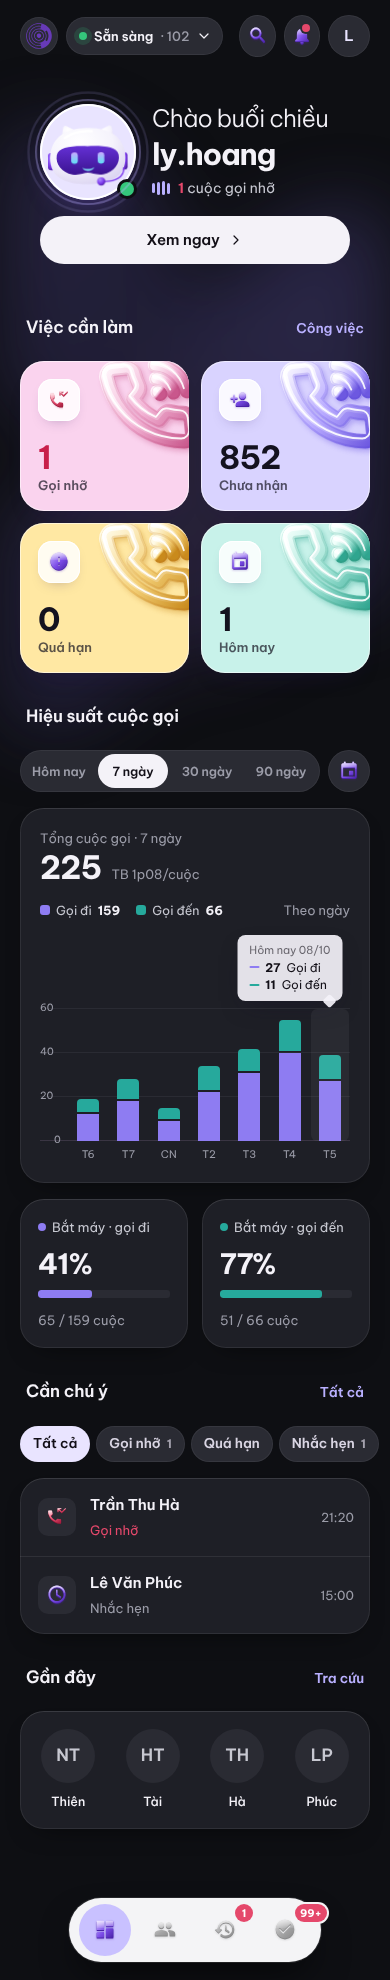
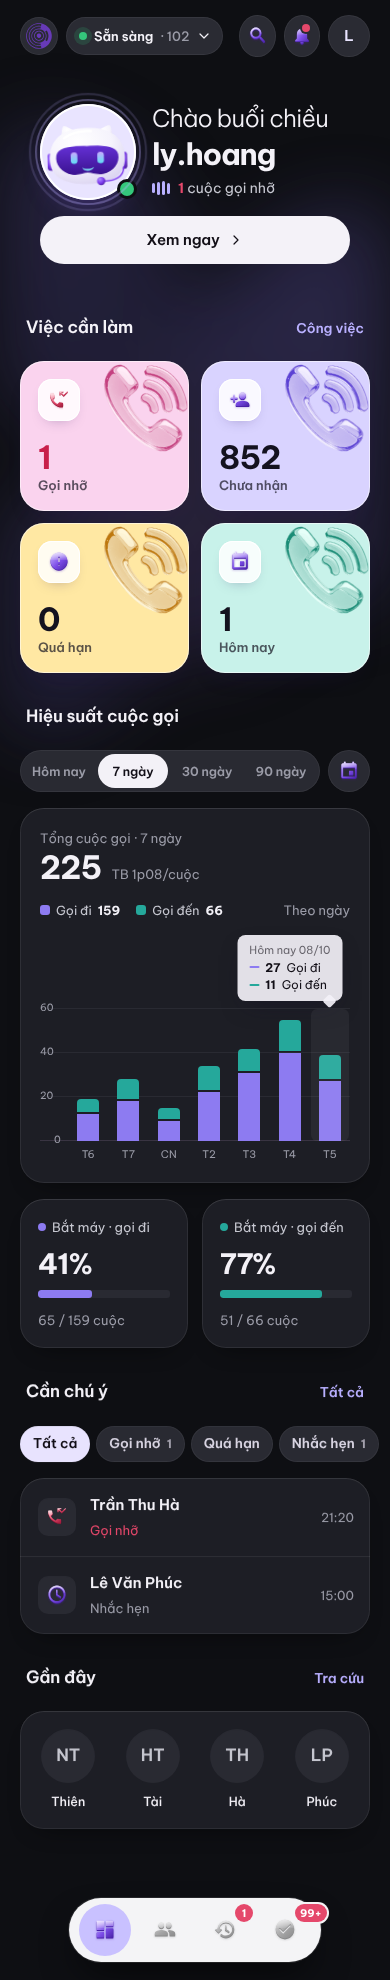
Thẻ chỉ số: dùng ảnh ống nghe kính 3D của bạn, tô 4 màu theo từng thẻ
Claude-Session: https://claude.ai/code/session_01UEoceJJYZjHjQck4sgHN5P

diff --git a/prototype/assets/contacthub.css b/prototype/assets/contacthub.css
@@ -1164,12 +1164,12 @@
 .app.dk .tile::after,.app.lt .tile::after{inset:auto -6px 80px auto;width:30px;height:9px;border-radius:5px}
 /* v26b — trang trí: ống nghe điện thoại kính 3D, mỗi thẻ một màu (thay cho góc điện thoại) */
 .app.dk .tile::after,.app.lt .tile::after{display:none!important}
-.app.dk .tile::before,.app.lt .tile::before{right:-16px;top:-12px;bottom:auto;width:112px;height:112px;border-radius:0;box-shadow:none;
+.app.dk .tile::before,.app.lt .tile::before{right:-18px;top:-14px;bottom:auto;width:120px;height:120px;border-radius:0;box-shadow:none;
   background:center/contain no-repeat;transform:rotate(-6deg)}
-.app.dk .tile:nth-child(1)::before,.app.lt .tile:nth-child(1)::before{background-image:url(deco/phone-pink.svg)}
-.app.dk .tile:nth-child(2)::before,.app.lt .tile:nth-child(2)::before{background-image:url(deco/phone-violet.svg)}
-.app.dk .tile:nth-child(3)::before,.app.lt .tile:nth-child(3)::before{background-image:url(deco/phone-yellow.svg)}
-.app.dk .tile:nth-child(4)::before,.app.lt .tile:nth-child(4)::before{background-image:url(deco/phone-mint.svg)}
+.app.dk .tile:nth-child(1)::before,.app.lt .tile:nth-child(1)::before{background-image:url(deco/phone-pink.png)}
+.app.dk .tile:nth-child(2)::before,.app.lt .tile:nth-child(2)::before{background-image:url(deco/phone-violet.png)}
+.app.dk .tile:nth-child(3)::before,.app.lt .tile:nth-child(3)::before{background-image:url(deco/phone-yellow.png)}
+.app.dk .tile:nth-child(4)::before,.app.lt .tile:nth-child(4)::before{background-image:url(deco/phone-mint.png)}
 .app.dk .tile:hover::before,.app.lt .tile:hover::before{transform:rotate(-12deg) scale(1.05)}
 /* nút thu gọn / mở thanh tab: logo Gcalls tròn (thay mặt mascot) */
 .app.lt .mface{align-items:center;background:#fff;box-shadow:0 0 0 1px #E1D9FF,0 4px 10px -6px rgba(91,67,224,.5)}

diff --git a/docs/SPEC.md b/docs/SPEC.md
@@ -77,7 +77,7 @@ Trong prototype, các nút dẫn tới màn đã bỏ (tìm kiếm, thông báo,
 | Ô icon pastel | tím `#F3F0FF` · hồng `#FFE9EE` (gọi nhỡ) · bạc hà `#E5F7EF` (gọi đến, hôm nay, sẵn sàng) · cam nhạt `#FFF0E3` (SMS, quá hạn) · xanh nhạt `#E8F1FF` | Icon bên trong màu tím |
 | Chữ | `#14121F` / `#4A475C` / `#7B7891` | |
 | Thanh tab | nền trắng chuyển tím nhạt `#FFFFFF → #F4F0FF → #E7DFFF`, ô tròn trắng + nhãn; tab đang chọn icon và nhãn tím. Cùng lề 20px và bo 20px với card; đáy màn có lớp mờ trắng để nội dung trôi dưới thanh tab không lộ mép | Nút logo Gcalls tròn ở cuối thanh: bấm để thu gọn thành nút tròn góc phải dưới (chấm đỏ khi có việc mới), bấm lại để mở. Trạng thái thu gọn được nhớ giữa các tab |
-| 4 thẻ chỉ số (Việc cần làm) | Nền pastel: hồng `#FAD3EE` (gọi nhỡ), tím `#D9D3FF` (chưa nhận), vàng `#FFE8A3` (quá hạn), bạc hà `#C8F2EA` (hôm nay). Icon trong ô trắng 42px góc trên trái; số 32px/700 và nhãn 13px/600 ở dưới, cùng lề trái 18px. Trang trí: ống nghe điện thoại kính 3D kèm sóng tín hiệu (`assets/deco/phone-*.svg`), cùng tông màu với thẻ, đặt ở góc trên phải, xoay -6° | Dùng chung cho bản sáng và tối |
+| 4 thẻ chỉ số (Việc cần làm) | Nền pastel: hồng `#FAD3EE` (gọi nhỡ), tím `#D9D3FF` (chưa nhận), vàng `#FFE8A3` (quá hạn), bạc hà `#C8F2EA` (hôm nay). Icon trong ô trắng 42px góc trên trái; số 32px/700 và nhãn 13px/600 ở dưới, cùng lề trái 18px. Trang trí: ảnh ống nghe kính 3D kèm sóng tín hiệu, tô theo màu từng thẻ (`assets/deco/phone-*.png`, nền trong suốt), cùng tông màu với thẻ, đặt ở góc trên phải, xoay -6° | Dùng chung cho bản sáng và tối |
 | Nền động (liquid) | 4 khối tím nhạt (bản tối: tím trầm, mờ 55%), đường kính 240–400px, trôi và co giãn chậm (chu kỳ 19 / 23 / 25 / 29s, so le). Bộ lọc gooey (Gaussian blur 22 + ngưỡng alpha) để các khối chạm nhau thì dính lại như giọt nước, sau đó blur thêm 28px (tối: 36px), giảm độ bão hòa còn 60%, độ đậm 75% (tối: 40%) cho dịu mắt | Tắt chuyển động khi máy bật "Giảm chuyển động". Trên native: dùng shader / Lottie hoặc ảnh động pre-render để nhẹ máy |
 | Chip, phân đoạn | chip trắng viền mảnh, chip chọn tím đặc; phân đoạn nền `#F4F3F8`, mục chọn trắng chữ tím | |
 

diff --git a/README.md b/README.md
@@ -46,7 +46,7 @@ prototype/
     contacthub.css   Toàn bộ style và design token (:root)
     icons/*.svg      Icon theo tên: phone, call-missed, nav-*, …
     theme/*.svg      Hình nền và icon cho bản tối / sáng
-    deco/*.svg       Ống nghe kính 3D trang trí 4 thẻ chỉ số
+    deco/*.png       Ống nghe kính 3D (4 màu) trang trí 4 thẻ chỉ số
 ```
 
 ## Cho dev
